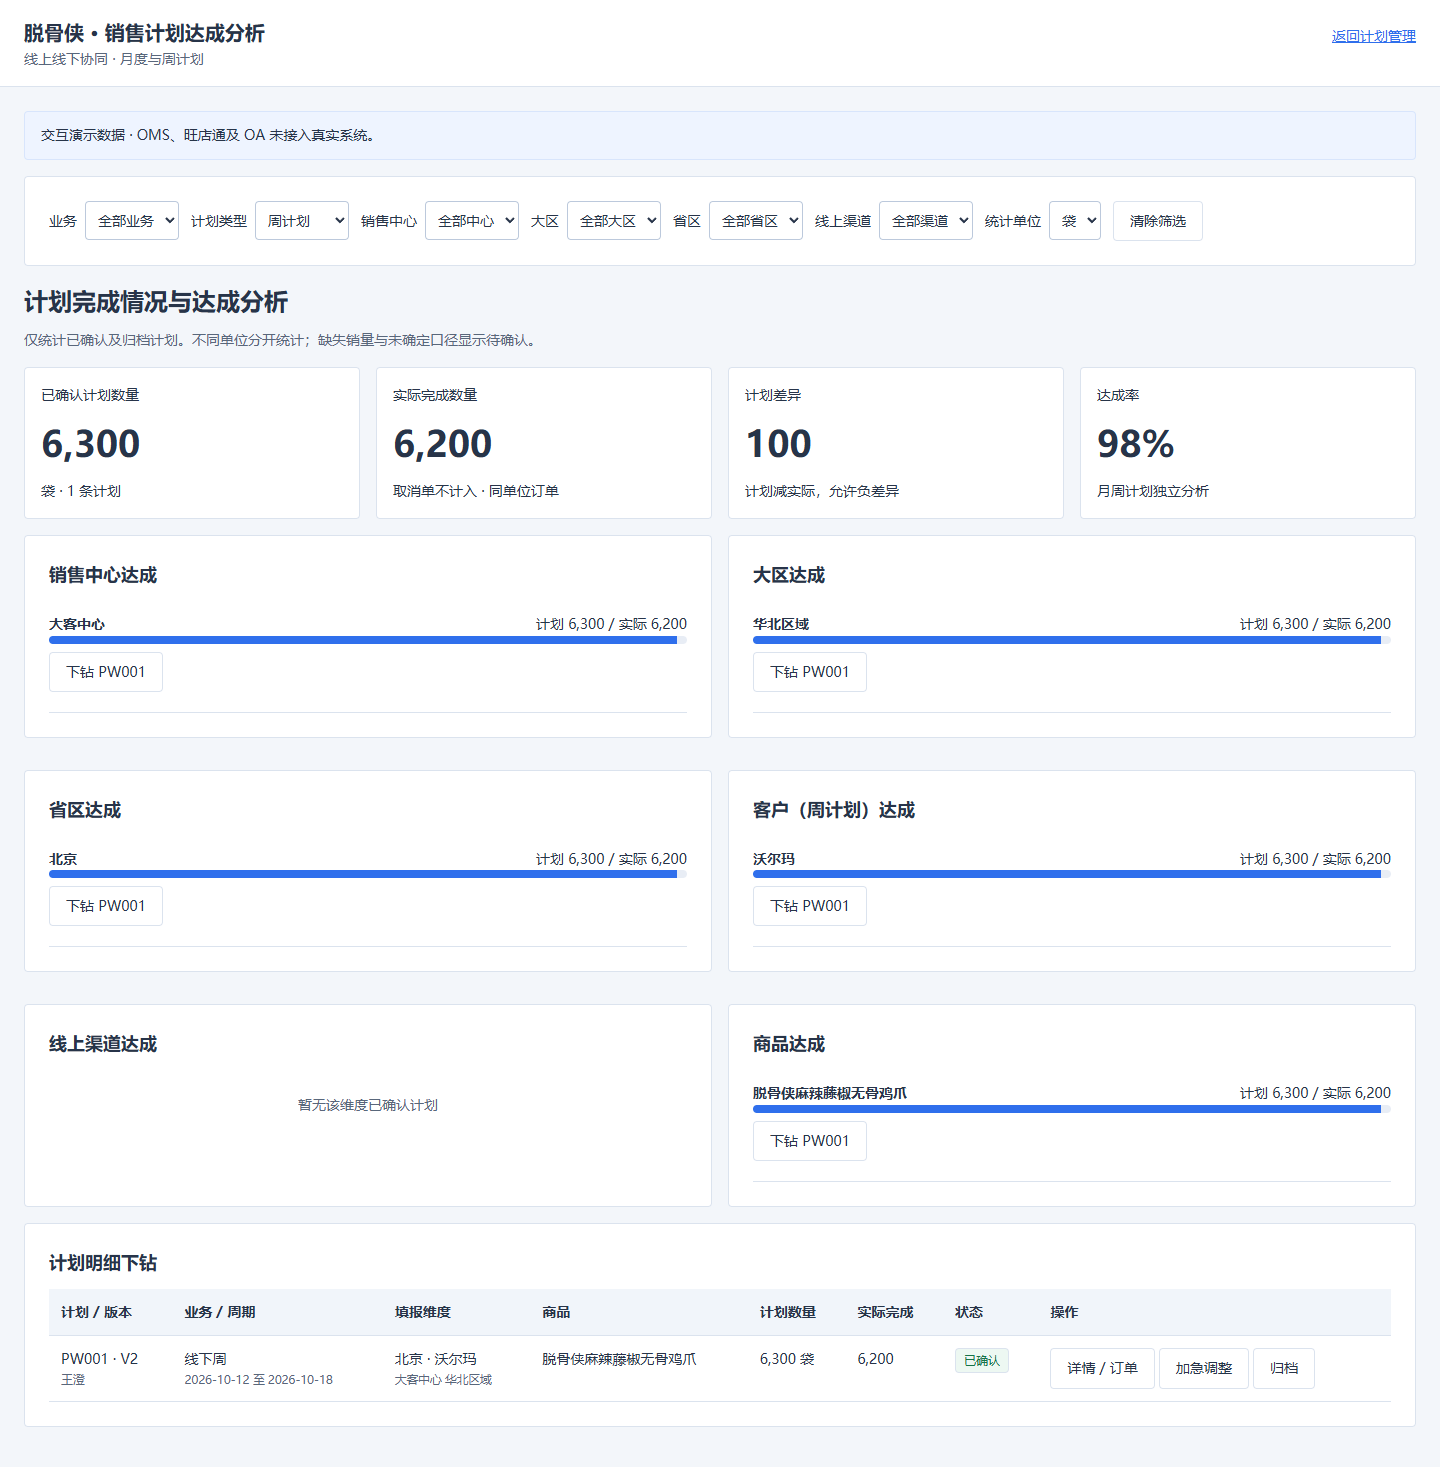
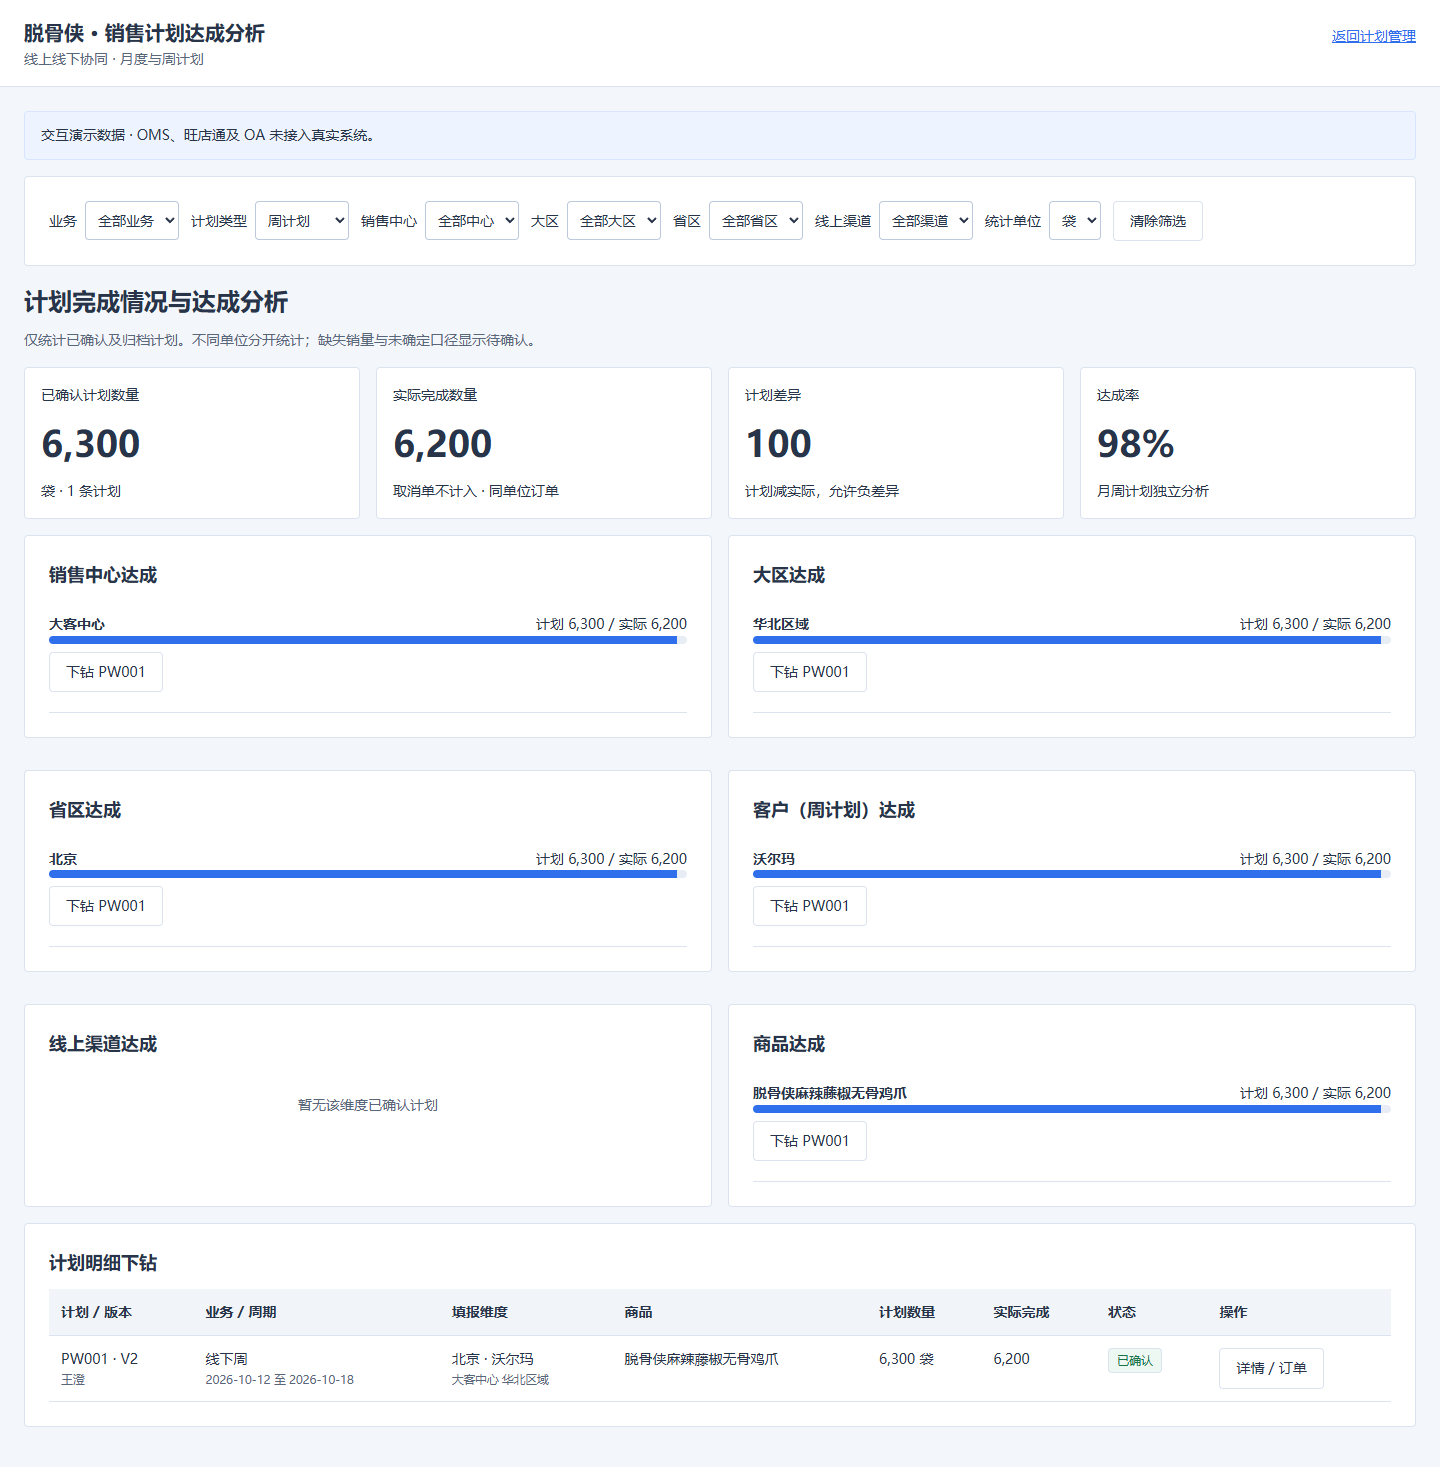
Auto sync 2026-10-12 08:49:57

diff --git a/09-设计与原型/销售计划管理.js b/09-设计与原型/销售计划管理.js
@@ -20,15 +20,17 @@
   }
   function filterBar(){const areaList=Object.keys(M.areas), provinces=filters.area==='all'?Object.values(M.areas).flat():M.areas[filters.area];return `<div class="card row filters"><label>业务 <select data-filter="business">${options(['offline','online'],filters.business,'全部业务').replace('>offline<','>线下<').replace('>online<','>线上<')}</select></label><label>计划类型 <select data-filter="kind">${options(['month','week'],filters.kind).replace('>month<','>月度计划<').replace('>week<','>周计划<')}</select></label><label>销售中心 <select data-filter="center">${options(M.centers,filters.center,'全部中心')}</select></label><label>大区 <select data-filter="area">${options(areaList,filters.area,'全部大区')}</select></label><label>省区 <select data-filter="province">${options(provinces,filters.province,'全部省区')}</select></label><label>线上渠道 <select data-filter="channel">${options(M.channels,filters.channel,'全部渠道')}</select></label><label>统计单位 <select data-filter="unit">${options(['箱','包','袋','盒','罐','支'],filters.unit)}</select></label><button data-action="clear">清除筛选</button></div>`;}
   function metrics(list){const approved=list.filter(p=>p.stage>=M.chain(p).length&&!p.rejected), total=approved.reduce((s,p)=>s+p.qty,0), actual=approved.some(p=>M.actual(d,p)===null)?null:approved.reduce((s,p)=>s+M.actual(d,p),0);return `<div class="metrics"><div class="metric">已确认计划数量<strong>${fmt(total)}</strong>${esc(filters.unit)} · ${approved.length} 条计划</div><div class="metric">实际完成数量<strong>${fmt(actual)}</strong>取消单不计入 · 同单位订单</div><div class="metric">计划差异<strong>${fmt(actual===null?null:total-actual)}</strong>计划减实际，允许负差异</div><div class="metric">达成率<strong>${actual===null?'待确认':total?Math.round(actual/total*100)+'%':'—'}</strong>月周计划独立分析</div></div>`;}
-  function planTable(list,review=false){return list.length?`<div class="table-wrap"><table><thead><tr><th>计划 / 版本</th><th>业务 / 周期</th><th>填报维度</th><th>商品</th><th>计划数量</th><th>实际完成</th><th>状态</th><th>操作</th></tr></thead><tbody>${list.map(p=>`<tr><td>${esc(p.id)} · V${p.version}<small>${esc(p.owner)}</small></td><td>${p.business==='online'?'线上':'线下'}${p.kind==='month'?'月度':'周'}<small>${p.start} 至 ${p.end}</small></td><td>${esc(subject(p))}<small>${esc(p.center)} ${esc(p.area)}</small></td><td>${esc(product(p.product))}</td><td>${fmt(p.qty)} ${esc(p.unit)}</td><td>${fmt(M.actual(d,p))}</td><td>${tag(M.status(d,p))}</td><td><button data-action="detail" data-id="${p.id}">详情 / 订单</button> ${p.stage<0||p.rejected?`<button data-action="submit" data-id="${p.id}">提交</button>`:''}${review&&M.chain(p)[p.stage]===role?` <button data-action="review" data-id="${p.id}">审核</button>`:''}${p.stage>=M.chain(p).length&&!p.archived?` <button data-action="adjust" data-id="${p.id}">加急调整</button> <button data-action="archive" data-id="${p.id}">归档</button>`:''}</td></tr>`).join('')}</tbody></table></div>`:'<div class="empty">暂无符合条件的计划。请清除筛选或新增计划。</div>';}
+  function planTable(list,review=false){return list.length?`<div class="table-wrap"><table><thead><tr><th>计划 / 版本</th><th>业务 / 周期</th><th>填报维度</th><th>商品</th><th>计划数量</th><th>实际完成</th><th>状态</th><th>操作</th></tr></thead><tbody>${list.map(p=>`<tr><td>${esc(p.id)} · V${p.version}<small>${esc(p.owner)}</small></td><td>${p.business==='online'?'线上':'线下'}${p.kind==='month'?'月度':'周'}<small>${p.start} 至 ${p.end}</small></td><td>${esc(subject(p))}<small>${esc(p.center)} ${esc(p.area)}</small></td><td>${esc(product(p.product))}</td><td>${fmt(p.qty)} ${esc(p.unit)}</td><td>${fmt(M.actual(d,p))}</td><td>${tag(M.status(d,p))}</td><td><button data-action="detail" data-id="${p.id}">详情 / 订单</button> ${p.stage<0||p.rejected?`<button data-action="submit" data-id="${p.id}">提交</button>`:''}${review&&M.chain(p)[p.stage]===role?` <button data-action="review" data-id="${p.id}">审核</button>`:''}${!screen&&p.stage>=M.chain(p).length&&!p.archived?` <button data-action="adjust" data-id="${p.id}">加急调整</button> <button data-action="archive" data-id="${p.id}">归档</button>`:''}</td></tr>`).join('')}</tbody></table></div>`:'<div class="empty">暂无符合条件的计划。请清除筛选或新增计划。</div>';}
   function content(){
-    if(view==='plans'||view==='review')return `<div class="row space"><div><h1>${view==='review'?'分级审核':'销售计划填报'}</h1><p class="muted">线下月计划：省区＋商品；线下周计划：省区＋客户＋商品；线上：渠道＋商品。</p></div>${view==='plans'?'<button class="primary" data-action="new">新增计划</button>':''}</div><div class="notice">月度窗口：${M.windowState(d,'month')} · 周计划窗口：${M.windowState(d,'week')}。月度20日填报、周五前完成，精确时点在填报规则中配置。</div>${metrics(rows())}<section class="card">${planTable(rows(),view==='review')}</section>`;
+    if(view==='plans'||view==='review')return `<div class="row space"><div><h1>${view==='review'?'分级审核':'销售计划填报'}</h1><p class="muted">线下月计划：省区＋商品；线下周计划：省区＋客户＋商品；线上：渠道＋商品。</p></div>${view==='plans'?'<button class="primary" data-action="new">新增计划</button>':''}</div><div class="notice">月度窗口：${M.windowState(d,'month')} · 周计划窗口：${M.windowState(d,'week')}。月度20日填报、周五前完成，精确时点在填报规则中配置。</div>${metrics(rows())}${view==='review'?reviewSummary(rows()):''}<section class="card">${planTable(rows(),view==='review')}</section>`;
     if(view==='analysis')return analysis();
     if(view==='products')return `<section class="card"><div class="row space"><h1>可填报商品维护</h1><button data-action="product-new" ${role!=='商品管理员'?'disabled':''}>新增商品</button></div><p>商品管理员维护启用状态、适用业务、生效与失效日期。停用不影响历史计划。</p><div class="table-wrap"><table><thead><tr><th>商品编码 / 名称</th><th>适用业务</th><th>有效期</th><th>状态</th><th>操作</th></tr></thead><tbody>${d.products.map(p=>`<tr><td>${esc(p.id)}<small>${esc(p.name)}</small></td><td>${esc(p.scope)}</td><td>${p.from} 至 ${p.to||'长期'}</td><td>${p.enabled?'已启用':'已停用'}</td><td><button data-action="product-edit" data-id="${p.id}" ${role!=='商品管理员'?'disabled':''}>编辑</button></td></tr>`).join('')}</tbody></table></div><h3>商品变更记录</h3>${d.productHistory.map(h=>`<p>${esc(h.at)} · ${esc(h.id)} · ${esc(h.action)}</p>`).join('')||'<p class="muted">暂无变更记录</p>'}</section>`;
     if(view==='adjustments')return `<section class="card"><h1>加急调整与 OA 审批演示</h1><p>只对已确认计划发起调整；审批通过生成新版本，驳回保留原数量。</p>${d.adjustments.length?`<div class="table-wrap"><table><thead><tr><th>计划</th><th>调整前 / 后</th><th>原因 / 附件</th><th>审批人</th><th>状态</th><th>操作</th></tr></thead><tbody>${d.adjustments.map(a=>`<tr><td>${a.plan} · V${a.base}</td><td>${fmt(a.before)} → ${fmt(a.after)}<small>差异 ${fmt(a.after-a.before)}</small></td><td>${esc(a.reason)}<small>${esc(a.attachment||'无附件')}</small></td><td>${esc(a.approver)}</td><td>${tag(a.status)}</td><td>${a.status==='待OA审批'&&role===a.approver?`<button data-action="adjust-review" data-id="${a.id}">演示审批</button>`:''}</td></tr>`).join('')}</tbody></table></div>`:'<div class="empty">暂无加急调整。请从已确认计划发起。</div>'}</section>`;
     if(view==='orders')return `<section class="card"><h1>销售订单与计划关联</h1><p>自动匹配周期、业务、中心/渠道、省区、周计划客户、商品和单位。审核人员可处理未匹配与多匹配异常。</p>${orderTable(d.orders)}</section>`;
     if(view==='rules')return rules();
   }
+
+  function reviewSummary(list){const groups=new Map();list.filter(p=>p.business==='offline').forEach(p=>{const key=p.center+' / '+p.area;const g=groups.get(key)||{original:0,current:0,count:0};g.original+=p.versions[0].qty;g.current+=p.qty;g.count++;groups.set(key,g);});return '<section class="card"><h2>省区 → 大区 → 中心汇总</h2><p class="muted">当前筛选范围及单位；省区原始值与执行版本分开保留，逐级审核意见可从明细查看。</p><div class="table-wrap"><table><thead><tr><th>中心 / 大区</th><th>省区计划明细数</th><th>原始填报合计</th><th>执行计划合计</th></tr></thead><tbody>'+[...groups].map(([name,g])=>'<tr><td>'+esc(name)+'</td><td>'+g.count+'</td><td>'+fmt(g.original)+'</td><td>'+fmt(g.current)+'</td></tr>').join('')+'</tbody></table></div></section>';}
   function orderTable(list){return `<div class="table-wrap"><table><thead><tr><th>订单 / 来源</th><th>日期 / 客户或渠道</th><th>商品</th><th>数量 / 退货</th><th>月计划关联</th><th>周计划关联</th><th>状态</th></tr></thead><tbody>${list.map(o=>{const links=k=>d.plans.filter(p=>p.kind===k&&M.linked(d,p).some(x=>x.id===o.id));return `<tr><td>${o.id}<small>${o.source}</small></td><td>${o.date}<small>${esc(o.customer||o.channel)}</small></td><td>${esc(product(o.product))}</td><td>${fmt(o.qty)} ${o.unit}<small>退货 ${fmt(o.returned)}</small></td>${['month','week'].map(k=>`<td>${links(k).map(p=>`<button data-action="detail" data-id="${p.id}">${p.id}</button>`).join('')||'未匹配'}${links(k).length>1?tag('多匹配异常'):''} <button data-action="link-${k}" data-id="${o.id}">处理</button></td>`).join('')}<td>${esc(o.status)}</td></tr>`;}).join('')}</tbody></table></div>`;}
   function analysis(){const list=rows().filter(p=>p.stage>=M.chain(p).length&&!p.rejected), dimensions=['center','area','province','customer','channel','product'];return `<h1>计划完成情况与达成分析</h1><p class="muted">仅统计已确认及归档计划。不同单位分开统计；缺失销量与未确定口径显示待确认。</p>${metrics(rows())}<div class="grid">${dimensions.map(key=>{const groups=new Map();list.forEach(p=>{const name=key==='product'?product(p.product):p[key];if(!name)return;const x=groups.get(name)||{qty:0,actual:0,ids:[]};x.qty+=p.qty;const n=M.actual(d,p);x.actual=x.actual===null||n===null?null:x.actual+n;x.ids.push(p.id);groups.set(name,x);});return `<section class="card"><h2>${({center:'销售中心',area:'大区',province:'省区',customer:'客户（周计划）',channel:'线上渠道',product:'商品'})[key]}达成</h2>${[...groups].map(([name,g])=>`<div class="history"><div class="row space"><strong>${esc(name)}</strong><span>计划 ${fmt(g.qty)} / 实际 ${fmt(g.actual)}</span></div><div class="bar"><i style="width:${g.actual===null?0:Math.min(100,g.actual/g.qty*100)}%"></i></div><p>${g.ids.map(id=>`<button data-action="detail" data-id="${id}">下钻 ${id}</button>`).join(' ')}</p></div>`).join('')||'<div class="empty">暂无该维度已确认计划</div>'}</section>`;}).join('')}</div><section class="card"><h2>计划明细下钻</h2>${planTable(list)}</section>`;}
   function modal(title,html){const el=document.getElementById('dialog');el.innerHTML=`<div class="row space"><h2 id="dialogTitle">${esc(title)}</h2><button id="close">关闭</button></div>${html}`;el.querySelector('#close').onclick=()=>el.close();el.showModal();el.querySelectorAll('[data-action]').forEach(b=>b.onclick=()=>action(b.dataset.action,b.dataset.id));}
